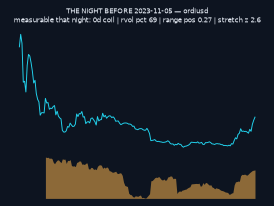
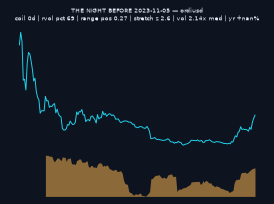
The night before, in full: every prior analysis on the night the lion was quiet. Section 5 rebuilt from 27 to 92 charts - one for each of the hundredfold board's biggest moves with a usable frame. Each chart truncates the price at the last quiet day (nothing after it existed yet), shades the coil wi

diff --git a/docs/v4_charts.html b/docs/v4_charts.html
@@ -317,52 +317,120 @@ construction; multiplicity binds; C7 stays sealed.</p>
 
 <h2>5. The night before &mdash; what could be said about the lion on the
 night it was quiet</h2>
-<p>Directive: charts of what was knowable on the night before the lion
-made the move. Here is the board as it existed on the last quiet day
-before the 27 biggest moves on record: the price chart <em>truncated at
-that night</em> &mdash; nothing after it existed yet &mdash; with the
-coil window shaded and the volatility-percentile strip beneath. The
-caption states exactly what was measurable that night (coil depth,
-vol percentile, position in the yearly range, stretch), and the last
-line records what the lion then did. This is the honest form of the
-clue: <span class="big">no chart here contains the move it
-precedes.</span> What it contains is the state &mdash; and the state
-is what C7 measured at +7.9 points over matched quiet. Read them and
-notice how often the night-before picture is boring: low, quiet,
-forgotten. The lion never looks like a lion the night before.
-Descriptive only; multiplicity binds; C7 sealed.</p>
+<p>Directive: charts of each prior analysis &mdash; what was knowable on
+the night before the lion made the move and jumped. Here is the board
+as it existed on the last quiet day before the 92 biggest moves on
+record. Each price series is <em>truncated at that night</em> &mdash;
+nothing after it existed yet &mdash; the coil window is shaded, and the
+volatility-percentile strip beneath shows the storm that had already
+ended. The caption is the complete panel of what was measurable that
+night: <span class="big">coil depth, volatility percentile, position
+in the yearly range, stretch, volume versus its own median, and the
+year's trend</span> &mdash; and the last line records what the lion
+then did. This is the honest form of the clue: <span class="big">no
+chart here contains the move it precedes.</span> What it contains is
+the state &mdash; and the state is what C7 measured at +7.9 points over
+matched quiet. Read them and notice how often the night-before picture
+is boring: low, quiet, forgotten, down on the year, volume dried.
+<span class="big">The lion never looks like a lion the night
+before.</span> Descriptive only; multiplicity binds; C7 sealed.</p>
 <div class="mgrid">
-<figure class="mv"><img src="assets/nightbefore/nb00.png" alt="mobileusd the night before its move"><figcaption><b>mobileusd</b> &middot; the night before <b>2023-11-18</b> &middot; not quiet, rvol pct 44, range pos 0.67, stretch z 1.4<br>then: <span class="big">+2,167% in the next 30 days</span></figcaption></figure>
-<figure class="mv"><img src="assets/nightbefore/nb01.png" alt="kmdusd the night before its move"><figcaption><b>kmdusd</b> &middot; the night before <b>2026-08-28</b> &middot; not quiet, rvol pct 99, range pos 0.03, stretch z -0.8<br>then: <span class="big">+2,094% in the next 30 days</span></figcaption></figure>
-<figure class="mv"><img src="assets/nightbefore/nb02.png" alt="arbusd the night before its move"><figcaption><b>arbusd</b> &middot; the night before <b>2023-02-18</b> &middot; not quiet, rvol pct 59, range pos 1.00, stretch z 1.6<br>then: <span class="big">+2,060% in the next 30 days</span></figcaption></figure>
-<figure class="mv"><img src="assets/nightbefore/nb03.png" alt="AKEUSDT the night before its move"><figcaption><b>AKEUSDT</b> &middot; the night before <b>2026-07-15</b> &middot; not quiet, rvol pct 100, range pos 0.51, stretch z 3.1<br>then: <span class="big">+1,462% in the next 30 days</span></figcaption></figure>
-<figure class="mv"><img src="assets/nightbefore/nb04.png" alt="tiausd the night before its move"><figcaption><b>tiausd</b> &middot; the night before <b>2023-11-09</b> &middot; quiet, rvol pct 5, range pos 0.10, stretch z -1.0<br>then: <span class="big">+1,275% in the next 30 days</span></figcaption></figure>
-<figure class="mv"><img src="assets/nightbefore/nb05.png" alt="turbousd the night before its move"><figcaption><b>turbousd</b> &middot; the night before <b>2024-04-27</b> &middot; not quiet, rvol pct 60, range pos 0.42, stretch z 0.0<br>then: <span class="big">+1,200% in the next 30 days</span></figcaption></figure>
-<figure class="mv"><img src="assets/nightbefore/nb06.png" alt="cfxusd the night before its move"><figcaption><b>cfxusd</b> &middot; the night before <b>2023-01-24</b> &middot; 56d coil, rvol pct 8, range pos 0.10, stretch z 0.1<br>then: <span class="big">+936% in the next 30 days</span></figcaption></figure>
-<figure class="mv"><img src="assets/nightbefore/nb07.png" alt="LSKUSDT the night before its move"><figcaption><b>LSKUSDT</b> &middot; the night before <b>2026-08-14</b> &middot; 170d coil, rvol pct 20, range pos 0.05, stretch z -0.9<br>then: <span class="big">+895% in the next 30 days</span></figcaption></figure>
-<figure class="mv"><img src="assets/nightbefore/nb08.png" alt="ordiusd the night before its move"><figcaption><b>ordiusd</b> &middot; the night before <b>2023-11-05</b> &middot; not quiet, rvol pct 69, range pos 0.27, stretch z 2.6<br>then: <span class="big">+737% in the next 30 days</span></figcaption></figure>
-<figure class="mv"><img src="assets/nightbefore/nb09.png" alt="UBUSDT the night before its move"><figcaption><b>UBUSDT</b> &middot; the night before <b>2026-04-06</b> &middot; not quiet, rvol pct 85, range pos 0.00, stretch z -3.0<br>then: <span class="big">+647% in the next 30 days</span></figcaption></figure>
-<figure class="mv"><img src="assets/nightbefore/nb10.png" alt="USELESSUSDT the night before its move"><figcaption><b>USELESSUSDT</b> &middot; the night before <b>2026-08-09</b> &middot; quiet, rvol pct 5, range pos 0.08, stretch z -2.0<br>then: <span class="big">+640% in the next 30 days</span></figcaption></figure>
-<figure class="mv"><img src="assets/nightbefore/nb11.png" alt="tonusd the night before its move"><figcaption><b>tonusd</b> &middot; the night before <b>2025-06-30</b> &middot; not quiet, rvol pct 88, range pos 0.12, stretch z -1.3<br>then: <span class="big">+636% in the next 30 days</span></figcaption></figure>
-<figure class="mv"><img src="assets/nightbefore/nb12.png" alt="lskusd the night before its move"><figcaption><b>lskusd</b> &middot; the night before <b>2026-08-14</b> &middot; quiet, rvol pct 27, range pos 0.05, stretch z -0.9<br>then: <span class="big">+623% in the next 30 days</span></figcaption></figure>
-<figure class="mv"><img src="assets/nightbefore/nb13.png" alt="jupusd the night before its move"><figcaption><b>jupusd</b> &middot; the night before <b>2025-11-05</b> &middot; not quiet, rvol pct 95, range pos 0.00, stretch z -7.2<br>then: <span class="big">+600% in the next 30 days</span></figcaption></figure>
-<figure class="mv"><img src="assets/nightbefore/nb14.png" alt="strkusd the night before its move"><figcaption><b>strkusd</b> &middot; the night before <b>2026-02-10</b> &middot; quiet, rvol pct 1, range pos 0.00, stretch z -0.7<br>then: <span class="big">+535% in the next 30 days</span></figcaption></figure>
-<figure class="mv"><img src="assets/nightbefore/nb15.png" alt="xvgusd the night before its move"><figcaption><b>xvgusd</b> &middot; the night before <b>2024-11-04</b> &middot; not quiet, rvol pct 41, range pos 0.02, stretch z -1.9<br>then: <span class="big">+531% in the next 30 days</span></figcaption></figure>
-<figure class="mv"><img src="assets/nightbefore/nb16.png" alt="zecusd the night before its move"><figcaption><b>zecusd</b> &middot; the night before <b>2025-09-11</b> &middot; not quiet, rvol pct 61, range pos 0.59, stretch z 1.5<br>then: <span class="big">+510% in the next 30 days</span></figcaption></figure>
-<figure class="mv"><img src="assets/nightbefore/nb17.png" alt="ZECUSDT the night before its move"><figcaption><b>ZECUSDT</b> &middot; the night before <b>2025-09-11</b> &middot; not quiet, rvol pct 56, range pos 0.59, stretch z 1.6<br>then: <span class="big">+507% in the next 30 days</span></figcaption></figure>
-<figure class="mv"><img src="assets/nightbefore/nb18.png" alt="xlmusd the night before its move"><figcaption><b>xlmusd</b> &middot; the night before <b>2024-10-25</b> &middot; 60d coil, rvol pct 8, range pos 0.13, stretch z -0.6<br>then: <span class="big">+475% in the next 30 days</span></figcaption></figure>
-<figure class="mv"><img src="assets/nightbefore/nb19.png" alt="XLMUSDT the night before its move"><figcaption><b>XLMUSDT</b> &middot; the night before <b>2024-10-25</b> &middot; quiet, rvol pct 9, range pos 0.13, stretch z -0.6<br>then: <span class="big">+474% in the next 30 days</span></figcaption></figure>
-<figure class="mv"><img src="assets/nightbefore/nb20.png" alt="DUSKUSDT the night before its move"><figcaption><b>DUSKUSDT</b> &middot; the night before <b>2025-12-21</b> &middot; quiet, rvol pct 10, range pos 0.02, stretch z -1.5<br>then: <span class="big">+468% in the next 30 days</span></figcaption></figure>
-<figure class="mv"><img src="assets/nightbefore/nb21.png" alt="ONEUSDT the night before its move"><figcaption><b>ONEUSDT</b> &middot; the night before <b>2026-08-22</b> &middot; not quiet, rvol pct 97, range pos 0.02, stretch z -1.7<br>then: <span class="big">+466% in the next 30 days</span></figcaption></figure>
-<figure class="mv"><img src="assets/nightbefore/nb22.png" alt="gasusd the night before its move"><figcaption><b>gasusd</b> &middot; the night before <b>2023-10-05</b> &middot; not quiet, rvol pct 34, range pos 0.05, stretch z -1.0<br>then: <span class="big">+457% in the next 30 days</span></figcaption></figure>
-<figure class="mv"><img src="assets/nightbefore/nb23.png" alt="QUSDT the night before its move"><figcaption><b>QUSDT</b> &middot; the night before <b>2026-09-19</b> &middot; quiet, rvol pct 21, range pos 0.59, stretch z 1.1<br>then: <span class="big">+453% in the next 30 days</span></figcaption></figure>
-<figure class="mv"><img src="assets/nightbefore/nb24.png" alt="ogusd the night before its move"><figcaption><b>ogusd</b> &middot; the night before <b>2023-03-09</b> &middot; 85d coil, rvol pct 4, range pos 0.02, stretch z -1.6<br>then: <span class="big">+450% in the next 30 days</span></figcaption></figure>
-<figure class="mv"><img src="assets/nightbefore/nb25.png" alt="arusd the night before its move"><figcaption><b>arusd</b> &middot; the night before <b>2024-02-07</b> &middot; quiet, rvol pct 22, range pos 0.65, stretch z -0.2<br>then: <span class="big">+414% in the next 30 days</span></figcaption></figure>
-<figure class="mv"><img src="assets/nightbefore/nb26.png" alt="movrusd the night before its move"><figcaption><b>movrusd</b> &middot; the night before <b>2023-11-24</b> &middot; not quiet, rvol pct 96, range pos 0.53, stretch z 2.6<br>then: <span class="big">+394% in the next 30 days</span></figcaption></figure>
+<figure class="mv"><img src="assets/nightbefore/nb00.png" alt="mobileusd the night before its move"><figcaption><b>mobileusd</b> &middot; the night before <b>2023-11-18</b><br>not quiet, rvol pct 44, range pos 0.67, stretch z 1.4, vol 7.61x, yr n/a<br>then: <span class="big">+2,167% in the next 30 days</span></figcaption></figure>
+<figure class="mv"><img src="assets/nightbefore/nb01.png" alt="kmdusd the night before its move"><figcaption><b>kmdusd</b> &middot; the night before <b>2026-08-28</b><br>not quiet, rvol pct 99, range pos 0.03, stretch z -0.8, vol 0.65x, yr -82%<br>then: <span class="big">+2,094% in the next 30 days</span></figcaption></figure>
+<figure class="mv"><img src="assets/nightbefore/nb02.png" alt="arbusd the night before its move"><figcaption><b>arbusd</b> &middot; the night before <b>2023-02-18</b><br>not quiet, rvol pct 59, range pos 1.00, stretch z 1.6, vol n/a, yr +67%<br>then: <span class="big">+2,060% in the next 30 days</span></figcaption></figure>
+<figure class="mv"><img src="assets/nightbefore/nb03.png" alt="AKEUSDT the night before its move"><figcaption><b>AKEUSDT</b> &middot; the night before <b>2026-07-15</b><br>not quiet, rvol pct 100, range pos 0.51, stretch z 3.1, vol 70.98x, yr -41%<br>then: <span class="big">+1,462% in the next 30 days</span></figcaption></figure>
+<figure class="mv"><img src="assets/nightbefore/nb04.png" alt="tiausd the night before its move"><figcaption><b>tiausd</b> &middot; the night before <b>2023-11-09</b><br>quiet, rvol pct 5, range pos 0.10, stretch z -1.0, vol n/a, yr -64%<br>then: <span class="big">+1,275% in the next 30 days</span></figcaption></figure>
+<figure class="mv"><img src="assets/nightbefore/nb05.png" alt="turbousd the night before its move"><figcaption><b>turbousd</b> &middot; the night before <b>2024-04-27</b><br>not quiet, rvol pct 60, range pos 0.42, stretch z 0.0, vol 0.64x, yr +500%<br>then: <span class="big">+1,200% in the next 30 days</span></figcaption></figure>
+<figure class="mv"><img src="assets/nightbefore/nb06.png" alt="cfxusd the night before its move"><figcaption><b>cfxusd</b> &middot; the night before <b>2023-01-24</b><br>56d coil, rvol pct 8, range pos 0.10, stretch z 0.1, vol 2.07x, yr -66%<br>then: <span class="big">+936% in the next 30 days</span></figcaption></figure>
+<figure class="mv"><img src="assets/nightbefore/nb07.png" alt="LSKUSDT the night before its move"><figcaption><b>LSKUSDT</b> &middot; the night before <b>2026-08-14</b><br>170d coil, rvol pct 20, range pos 0.05, stretch z -0.9, vol 21.63x, yr -65%<br>then: <span class="big">+895% in the next 30 days</span></figcaption></figure>
+<figure class="mv"><img src="assets/nightbefore/nb08.png" alt="ordiusd the night before its move"><figcaption><b>ordiusd</b> &middot; the night before <b>2023-11-05</b><br>not quiet, rvol pct 69, range pos 0.27, stretch z 2.6, vol 2.14x, yr n/a<br>then: <span class="big">+737% in the next 30 days</span></figcaption></figure>
+<figure class="mv"><img src="assets/nightbefore/nb09.png" alt="UBUSDT the night before its move"><figcaption><b>UBUSDT</b> &middot; the night before <b>2026-04-06</b><br>not quiet, rvol pct 85, range pos 0.00, stretch z -3.0, vol 2.62x, yr n/a<br>then: <span class="big">+647% in the next 30 days</span></figcaption></figure>
+<figure class="mv"><img src="assets/nightbefore/nb10.png" alt="USELESSUSDT the night before its move"><figcaption><b>USELESSUSDT</b> &middot; the night before <b>2026-08-09</b><br>quiet, rvol pct 5, range pos 0.08, stretch z -2.0, vol 1.07x, yr -64%<br>then: <span class="big">+640% in the next 30 days</span></figcaption></figure>
+<figure class="mv"><img src="assets/nightbefore/nb11.png" alt="tonusd the night before its move"><figcaption><b>tonusd</b> &middot; the night before <b>2025-06-30</b><br>not quiet, rvol pct 88, range pos 0.12, stretch z -1.3, vol 0.82x, yr -60%<br>then: <span class="big">+636% in the next 30 days</span></figcaption></figure>
+<figure class="mv"><img src="assets/nightbefore/nb12.png" alt="lskusd the night before its move"><figcaption><b>lskusd</b> &middot; the night before <b>2026-08-14</b><br>quiet, rvol pct 27, range pos 0.05, stretch z -0.9, vol 4.68x, yr -65%<br>then: <span class="big">+623% in the next 30 days</span></figcaption></figure>
+<figure class="mv"><img src="assets/nightbefore/nb13.png" alt="jupusd the night before its move"><figcaption><b>jupusd</b> &middot; the night before <b>2025-11-05</b><br>not quiet, rvol pct 95, range pos 0.00, stretch z -7.2, vol n/a, yr -86%<br>then: <span class="big">+600% in the next 30 days</span></figcaption></figure>
+<figure class="mv"><img src="assets/nightbefore/nb14.png" alt="strkusd the night before its move"><figcaption><b>strkusd</b> &middot; the night before <b>2026-02-10</b><br>quiet, rvol pct 1, range pos 0.00, stretch z -0.7, vol 0.98x, yr -100%<br>then: <span class="big">+535% in the next 30 days</span></figcaption></figure>
+<figure class="mv"><img src="assets/nightbefore/nb15.png" alt="xvgusd the night before its move"><figcaption><b>xvgusd</b> &middot; the night before <b>2024-11-04</b><br>not quiet, rvol pct 41, range pos 0.02, stretch z -1.9, vol 1.08x, yr -57%<br>then: <span class="big">+531% in the next 30 days</span></figcaption></figure>
+<figure class="mv"><img src="assets/nightbefore/nb16.png" alt="zecusd the night before its move"><figcaption><b>zecusd</b> &middot; the night before <b>2025-09-11</b><br>not quiet, rvol pct 61, range pos 0.59, stretch z 1.5, vol 1.01x, yr -19%<br>then: <span class="big">+510% in the next 30 days</span></figcaption></figure>
+<figure class="mv"><img src="assets/nightbefore/nb17.png" alt="ZECUSDT the night before its move"><figcaption><b>ZECUSDT</b> &middot; the night before <b>2025-09-11</b><br>not quiet, rvol pct 56, range pos 0.59, stretch z 1.6, vol 2.10x, yr -20%<br>then: <span class="big">+507% in the next 30 days</span></figcaption></figure>
+<figure class="mv"><img src="assets/nightbefore/nb18.png" alt="xlmusd the night before its move"><figcaption><b>xlmusd</b> &middot; the night before <b>2024-10-25</b><br>60d coil, rvol pct 8, range pos 0.13, stretch z -0.6, vol 1.20x, yr -19%<br>then: <span class="big">+475% in the next 30 days</span></figcaption></figure>
+<figure class="mv"><img src="assets/nightbefore/nb19.png" alt="XLMUSDT the night before its move"><figcaption><b>XLMUSDT</b> &middot; the night before <b>2024-10-25</b><br>quiet, rvol pct 9, range pos 0.13, stretch z -0.6, vol 1.04x, yr n/a<br>then: <span class="big">+474% in the next 30 days</span></figcaption></figure>
+<figure class="mv"><img src="assets/nightbefore/nb20.png" alt="DUSKUSDT the night before its move"><figcaption><b>DUSKUSDT</b> &middot; the night before <b>2025-12-21</b><br>quiet, rvol pct 10, range pos 0.02, stretch z -1.5, vol 0.42x, yr -43%<br>then: <span class="big">+468% in the next 30 days</span></figcaption></figure>
+<figure class="mv"><img src="assets/nightbefore/nb21.png" alt="ONEUSDT the night before its move"><figcaption><b>ONEUSDT</b> &middot; the night before <b>2026-08-22</b><br>not quiet, rvol pct 97, range pos 0.02, stretch z -1.7, vol 8.73x, yr -81%<br>then: <span class="big">+466% in the next 30 days</span></figcaption></figure>
+<figure class="mv"><img src="assets/nightbefore/nb22.png" alt="gasusd the night before its move"><figcaption><b>gasusd</b> &middot; the night before <b>2023-10-05</b><br>not quiet, rvol pct 34, range pos 0.05, stretch z -1.0, vol 1.55x, yr -10%<br>then: <span class="big">+457% in the next 30 days</span></figcaption></figure>
+<figure class="mv"><img src="assets/nightbefore/nb23.png" alt="QUSDT the night before its move"><figcaption><b>QUSDT</b> &middot; the night before <b>2026-09-19</b><br>quiet, rvol pct 21, range pos 0.59, stretch z 1.1, vol 1.07x, yr +29%<br>then: <span class="big">+453% in the next 30 days</span></figcaption></figure>
+<figure class="mv"><img src="assets/nightbefore/nb24.png" alt="ogusd the night before its move"><figcaption><b>ogusd</b> &middot; the night before <b>2023-03-09</b><br>85d coil, rvol pct 4, range pos 0.02, stretch z -1.6, vol 0.93x, yr -30%<br>then: <span class="big">+450% in the next 30 days</span></figcaption></figure>
+<figure class="mv"><img src="assets/nightbefore/nb25.png" alt="arusd the night before its move"><figcaption><b>arusd</b> &middot; the night before <b>2024-02-07</b><br>quiet, rvol pct 22, range pos 0.65, stretch z -0.2, vol 0.44x, yr +27%<br>then: <span class="big">+414% in the next 30 days</span></figcaption></figure>
+<figure class="mv"><img src="assets/nightbefore/nb26.png" alt="movrusd the night before its move"><figcaption><b>movrusd</b> &middot; the night before <b>2023-11-24</b><br>not quiet, rvol pct 96, range pos 0.53, stretch z 2.6, vol 9.12x, yr -26%<br>then: <span class="big">+394% in the next 30 days</span></figcaption></figure>
+<figure class="mv"><img src="assets/nightbefore/nb27.png" alt="slerfusd the night before its move"><figcaption><b>slerfusd</b> &middot; the night before <b>2026-04-30</b><br>not quiet, rvol pct 94, range pos 0.00, stretch z -1.2, vol 0.38x, yr -96%<br>then: <span class="big">+391% in the next 30 days</span></figcaption></figure>
+<figure class="mv"><img src="assets/nightbefore/nb28.png" alt="crvusd the night before its move"><figcaption><b>crvusd</b> &middot; the night before <b>2024-11-04</b><br>32d coil, rvol pct 9, range pos 0.02, stretch z -1.8, vol 0.83x, yr -62%<br>then: <span class="big">+387% in the next 30 days</span></figcaption></figure>
+<figure class="mv"><img src="assets/nightbefore/nb29.png" alt="CRVUSDT the night before its move"><figcaption><b>CRVUSDT</b> &middot; the night before <b>2024-11-04</b><br>31d coil, rvol pct 10, range pos 0.02, stretch z -1.8, vol 0.79x, yr -62%<br>then: <span class="big">+386% in the next 30 days</span></figcaption></figure>
+<figure class="mv"><img src="assets/nightbefore/nb30.png" alt="highusd the night before its move"><figcaption><b>highusd</b> &middot; the night before <b>2023-01-08</b><br>41d coil, rvol pct 0, range pos 0.02, stretch z -1.4, vol 0.70x, yr -77%<br>then: <span class="big">+381% in the next 30 days</span></figcaption></figure>
+<figure class="mv"><img src="assets/nightbefore/nb31.png" alt="IOTAUSDT the night before its move"><figcaption><b>IOTAUSDT</b> &middot; the night before <b>2024-11-04</b><br>quiet, rvol pct 28, range pos 0.00, stretch z -2.1, vol 1.29x, yr -63%<br>then: <span class="big">+380% in the next 30 days</span></figcaption></figure>
+<figure class="mv"><img src="assets/nightbefore/nb32.png" alt="iotausd the night before its move"><figcaption><b>iotausd</b> &middot; the night before <b>2024-11-04</b><br>quiet, rvol pct 31, range pos 0.00, stretch z -2.1, vol 0.87x, yr -63%<br>then: <span class="big">+377% in the next 30 days</span></figcaption></figure>
+<figure class="mv"><img src="assets/nightbefore/nb33.png" alt="cotiusd the night before its move"><figcaption><b>cotiusd</b> &middot; the night before <b>2024-01-27</b><br>not quiet, rvol pct 49, range pos 0.49, stretch z -0.1, vol 0.58x, yr -18%<br>then: <span class="big">+376% in the next 30 days</span></figcaption></figure>
+<figure class="mv"><img src="assets/nightbefore/nb34.png" alt="QNTUSDT the night before its move"><figcaption><b>QNTUSDT</b> &middot; the night before <b>2026-08-31</b><br>not quiet, rvol pct 35, range pos 0.18, stretch z -0.9, vol 0.69x, yr -18%<br>then: <span class="big">+370% in the next 30 days</span></figcaption></figure>
+<figure class="mv"><img src="assets/nightbefore/nb35.png" alt="qntusd the night before its move"><figcaption><b>qntusd</b> &middot; the night before <b>2026-08-31</b><br>not quiet, rvol pct 38, range pos 0.18, stretch z -0.9, vol 0.77x, yr -18%<br>then: <span class="big">+369% in the next 30 days</span></figcaption></figure>
+<figure class="mv"><img src="assets/nightbefore/nb36.png" alt="enjusd the night before its move"><figcaption><b>enjusd</b> &middot; the night before <b>2026-03-16</b><br>quiet, rvol pct 5, range pos 0.02, stretch z -1.3, vol 0.86x, yr -70%<br>then: <span class="big">+367% in the next 30 days</span></figcaption></figure>
+<figure class="mv"><img src="assets/nightbefore/nb37.png" alt="ENJUSDT the night before its move"><figcaption><b>ENJUSDT</b> &middot; the night before <b>2026-03-16</b><br>20d coil, rvol pct 1, range pos 0.02, stretch z -1.2, vol 0.73x, yr -70%<br>then: <span class="big">+365% in the next 30 days</span></figcaption></figure>
+<figure class="mv"><img src="assets/nightbefore/nb38.png" alt="hbarusd the night before its move"><figcaption><b>hbarusd</b> &middot; the night before <b>2024-11-14</b><br>not quiet, rvol pct 68, range pos 0.19, stretch z 2.6, vol 7.21x, yr -52%<br>then: <span class="big">+361% in the next 30 days</span></figcaption></figure>
+<figure class="mv"><img src="assets/nightbefore/nb39.png" alt="HBARUSDT the night before its move"><figcaption><b>HBARUSDT</b> &middot; the night before <b>2024-11-14</b><br>not quiet, rvol pct 72, range pos 0.19, stretch z 2.6, vol 6.44x, yr -52%<br>then: <span class="big">+360% in the next 30 days</span></figcaption></figure>
+<figure class="mv"><img src="assets/nightbefore/nb40.png" alt="RSRUSDT the night before its move"><figcaption><b>RSRUSDT</b> &middot; the night before <b>2024-11-03</b><br>53d coil, rvol pct 21, range pos 0.25, stretch z -0.1, vol 0.70x, yr +82%<br>then: <span class="big">+355% in the next 30 days</span></figcaption></figure>
+<figure class="mv"><img src="assets/nightbefore/nb41.png" alt="chrpusd the night before its move"><figcaption><b>chrpusd</b> &middot; the night before <b>2023-02-11</b><br>35d coil, rvol pct 8, range pos 0.00, stretch z -0.9, vol 0.72x, yr n/a<br>then: <span class="big">+344% in the next 30 days</span></figcaption></figure>
+<figure class="mv"><img src="assets/nightbefore/nb42.png" alt="ALGOUSDT the night before its move"><figcaption><b>ALGOUSDT</b> &middot; the night before <b>2024-11-02</b><br>49d coil, rvol pct 31, range pos 0.02, stretch z -1.4, vol 1.21x, yr -42%<br>then: <span class="big">+344% in the next 30 days</span></figcaption></figure>
+<figure class="mv"><img src="assets/nightbefore/nb43.png" alt="algousd the night before its move"><figcaption><b>algousd</b> &middot; the night before <b>2024-11-02</b><br>52d coil, rvol pct 28, range pos 0.02, stretch z -1.4, vol 0.97x, yr -42%<br>then: <span class="big">+341% in the next 30 days</span></figcaption></figure>
+<figure class="mv"><img src="assets/nightbefore/nb44.png" alt="rdntusd the night before its move"><figcaption><b>rdntusd</b> &middot; the night before <b>2023-01-12</b><br>27d coil, rvol pct 18, range pos 0.17, stretch z 0.7, vol 1.07x, yr n/a<br>then: <span class="big">+339% in the next 30 days</span></figcaption></figure>
+<figure class="mv"><img src="assets/nightbefore/nb45.png" alt="btgusd the night before its move"><figcaption><b>btgusd</b> &middot; the night before <b>2025-05-21</b><br>not quiet, rvol pct 89, range pos 0.01, stretch z -0.7, vol 0.29x, yr -96%<br>then: <span class="big">+339% in the next 30 days</span></figcaption></figure>
+<figure class="mv"><img src="assets/nightbefore/nb46.png" alt="PENGUUSDT the night before its move"><figcaption><b>PENGUUSDT</b> &middot; the night before <b>2025-06-21</b><br>25d coil, rvol pct 6, range pos 0.12, stretch z -0.1, vol 0.61x, yr n/a<br>then: <span class="big">+331% in the next 30 days</span></figcaption></figure>
+<figure class="mv"><img src="assets/nightbefore/nb47.png" alt="STRKUSDT the night before its move"><figcaption><b>STRKUSDT</b> &middot; the night before <b>2026-09-11</b><br>not quiet, rvol pct 63, range pos 0.09, stretch z -0.1, vol 2.21x, yr -67%<br>then: <span class="big">+330% in the next 30 days</span></figcaption></figure>
+<figure class="mv"><img src="assets/nightbefore/nb48.png" alt="trbusd the night before its move"><figcaption><b>trbusd</b> &middot; the night before <b>2023-08-17</b><br>not quiet, rvol pct 40, range pos 0.11, stretch z -1.1, vol 2.54x, yr -27%<br>then: <span class="big">+320% in the next 30 days</span></figcaption></figure>
+<figure class="mv"><img src="assets/nightbefore/nb49.png" alt="renderusd the night before its move"><figcaption><b>renderusd</b> &middot; the night before <b>2023-01-03</b><br>33d coil, rvol pct 10, range pos 0.06, stretch z -0.9, vol 1.25x, yr -76%<br>then: <span class="big">+318% in the next 30 days</span></figcaption></figure>
+<figure class="mv"><img src="assets/nightbefore/nb50.png" alt="SKRUSDT the night before its move"><figcaption><b>SKRUSDT</b> &middot; the night before <b>2026-08-01</b><br>quiet, rvol pct 14, range pos 0.00, stretch z -1.4, vol 0.54x, yr n/a<br>then: <span class="big">+316% in the next 30 days</span></figcaption></figure>
+<figure class="mv"><img src="assets/nightbefore/nb51.png" alt="zrxusd the night before its move"><figcaption><b>zrxusd</b> &middot; the night before <b>2024-02-13</b><br>not quiet, rvol pct 61, range pos 0.46, stretch z -0.8, vol 0.63x, yr +55%<br>then: <span class="big">+312% in the next 30 days</span></figcaption></figure>
+<figure class="mv"><img src="assets/nightbefore/nb52.png" alt="SANDUSDT the night before its move"><figcaption><b>SANDUSDT</b> &middot; the night before <b>2024-11-04</b><br>not quiet, rvol pct 39, range pos 0.00, stretch z -1.7, vol 1.02x, yr -58%<br>then: <span class="big">+311% in the next 30 days</span></figcaption></figure>
+<figure class="mv"><img src="assets/nightbefore/nb53.png" alt="sandusd the night before its move"><figcaption><b>sandusd</b> &middot; the night before <b>2024-11-04</b><br>not quiet, rvol pct 36, range pos 0.00, stretch z -1.8, vol 0.91x, yr -58%<br>then: <span class="big">+311% in the next 30 days</span></figcaption></figure>
+<figure class="mv"><img src="assets/nightbefore/nb54.png" alt="ALLOUSDT the night before its move"><figcaption><b>ALLOUSDT</b> &middot; the night before <b>2026-05-07</b><br>not quiet, rvol pct 52, range pos 0.14, stretch z 0.1, vol 1.07x, yr n/a<br>then: <span class="big">+307% in the next 30 days</span></figcaption></figure>
+<figure class="mv"><img src="assets/nightbefore/nb55.png" alt="arkmusd the night before its move"><figcaption><b>arkmusd</b> &middot; the night before <b>2024-01-29</b><br>not quiet, rvol pct 42, range pos 0.56, stretch z 0.4, vol 0.44x, yr n/a<br>then: <span class="big">+302% in the next 30 days</span></figcaption></figure>
+<figure class="mv"><img src="assets/nightbefore/nb56.png" alt="hntusd the night before its move"><figcaption><b>hntusd</b> &middot; the night before <b>2026-07-31</b><br>20d coil, rvol pct 1, range pos 0.00, stretch z -1.1, vol 1.30x, yr -90%<br>then: <span class="big">+300% in the next 30 days</span></figcaption></figure>
+<figure class="mv"><img src="assets/nightbefore/nb57.png" alt="dgbusd the night before its move"><figcaption><b>dgbusd</b> &middot; the night before <b>2024-11-04</b><br>not quiet, rvol pct 38, range pos 0.00, stretch z -3.1, vol 1.03x, yr -60%<br>then: <span class="big">+300% in the next 30 days</span></figcaption></figure>
+<figure class="mv"><img src="assets/nightbefore/nb58.png" alt="pivxusd the night before its move"><figcaption><b>pivxusd</b> &middot; the night before <b>2026-08-31</b><br>not quiet, rvol pct 97, range pos 0.03, stretch z -1.4, vol 0.23x, yr -87%<br>then: <span class="big">+299% in the next 30 days</span></figcaption></figure>
+<figure class="mv"><img src="assets/nightbefore/nb59.png" alt="SPOT_DGBUSDT the night before its move"><figcaption><b>SPOT_DGBUSDT</b> &middot; the night before <b>2024-11-04</b><br>54d coil, rvol pct 32, range pos 0.00, stretch z -3.1, vol 1.64x, yr -60%<br>then: <span class="big">+299% in the next 30 days</span></figcaption></figure>
+<figure class="mv"><img src="assets/nightbefore/nb60.png" alt="VETUSDT the night before its move"><figcaption><b>VETUSDT</b> &middot; the night before <b>2024-11-03</b><br>quiet, rvol pct 28, range pos 0.00, stretch z -1.9, vol 1.03x, yr -56%<br>then: <span class="big">+294% in the next 30 days</span></figcaption></figure>
+<figure class="mv"><img src="assets/nightbefore/nb61.png" alt="yggusd the night before its move"><figcaption><b>yggusd</b> &middot; the night before <b>2023-07-07</b><br>quiet, rvol pct 21, range pos 0.03, stretch z -1.3, vol 0.93x, yr -51%<br>then: <span class="big">+292% in the next 30 days</span></figcaption></figure>
+<figure class="mv"><img src="assets/nightbefore/nb62.png" alt="vetusd the night before its move"><figcaption><b>vetusd</b> &middot; the night before <b>2024-11-03</b><br>quiet, rvol pct 29, range pos 0.00, stretch z -1.9, vol 1.12x, yr -56%<br>then: <span class="big">+291% in the next 30 days</span></figcaption></figure>
+<figure class="mv"><img src="assets/nightbefore/nb63.png" alt="HUSDT the night before its move"><figcaption><b>HUSDT</b> &middot; the night before <b>2026-05-08</b><br>quiet, rvol pct 31, range pos 0.44, stretch z 1.4, vol 0.67x, yr +559%<br>then: <span class="big">+291% in the next 30 days</span></figcaption></figure>
+<figure class="mv"><img src="assets/nightbefore/nb64.png" alt="BUSDT the night before its move"><figcaption><b>BUSDT</b> &middot; the night before <b>2026-04-12</b><br>quiet, rvol pct 4, range pos 0.06, stretch z -0.9, vol 0.65x, yr -67%<br>then: <span class="big">+290% in the next 30 days</span></figcaption></figure>
+<figure class="mv"><img src="assets/nightbefore/nb65.png" alt="runeusd the night before its move"><figcaption><b>runeusd</b> &middot; the night before <b>2023-10-17</b><br>not quiet, rvol pct 58, range pos 0.57, stretch z 0.3, vol 1.17x, yr -21%<br>then: <span class="big">+284% in the next 30 days</span></figcaption></figure>
+<figure class="mv"><img src="assets/nightbefore/nb66.png" alt="santosusd the night before its move"><figcaption><b>santosusd</b> &middot; the night before <b>2022-07-25</b><br>25d coil, rvol pct 1, range pos 0.26, stretch z -0.1, vol 0.53x, yr n/a<br>then: <span class="big">+280% in the next 30 days</span></figcaption></figure>
+<figure class="mv"><img src="assets/nightbefore/nb67.png" alt="DASHUSDT the night before its move"><figcaption><b>DASHUSDT</b> &middot; the night before <b>2025-10-07</b><br>not quiet, rvol pct 100, range pos 0.68, stretch z 2.2, vol 5.98x, yr -4%<br>then: <span class="big">+278% in the next 30 days</span></figcaption></figure>
+<figure class="mv"><img src="assets/nightbefore/nb68.png" alt="rlcusd the night before its move"><figcaption><b>rlcusd</b> &middot; the night before <b>2026-09-11</b><br>24d coil, rvol pct 10, range pos 0.06, stretch z -0.9, vol 1.34x, yr -59%<br>then: <span class="big">+275% in the next 30 days</span></figcaption></figure>
+<figure class="mv"><img src="assets/nightbefore/nb69.png" alt="JELLYJELLYUSDT the night before its move"><figcaption><b>JELLYJELLYUSDT</b> &middot; the night before <b>2025-10-05</b><br>not quiet, rvol pct 77, range pos 0.72, stretch z 2.6, vol 11.65x, yr n/a<br>then: <span class="big">+274% in the next 30 days</span></figcaption></figure>
+<figure class="mv"><img src="assets/nightbefore/nb70.png" alt="dashusd the night before its move"><figcaption><b>dashusd</b> &middot; the night before <b>2025-10-07</b><br>not quiet, rvol pct 100, range pos 0.69, stretch z 2.2, vol 3.65x, yr -3%<br>then: <span class="big">+271% in the next 30 days</span></figcaption></figure>
+<figure class="mv"><img src="assets/nightbefore/nb71.png" alt="SUSHIUSDT the night before its move"><figcaption><b>SUSHIUSDT</b> &middot; the night before <b>2024-11-08</b><br>not quiet, rvol pct 89, range pos 0.14, stretch z 0.8, vol 1.64x, yr -55%<br>then: <span class="big">+268% in the next 30 days</span></figcaption></figure>
+<figure class="mv"><img src="assets/nightbefore/nb72.png" alt="TURBOUSDT the night before its move"><figcaption><b>TURBOUSDT</b> &middot; the night before <b>2025-04-06</b><br>quiet, rvol pct 12, range pos 0.00, stretch z -1.2, vol 0.77x, yr -72%<br>then: <span class="big">+267% in the next 30 days</span></figcaption></figure>
+<figure class="mv"><img src="assets/nightbefore/nb73.png" alt="wldusd the night before its move"><figcaption><b>wldusd</b> &middot; the night before <b>2024-01-23</b><br>not quiet, rvol pct 72, range pos 0.53, stretch z -0.4, vol 0.53x, yr +21889%<br>then: <span class="big">+264% in the next 30 days</span></figcaption></figure>
+<figure class="mv"><img src="assets/nightbefore/nb74.png" alt="sushiusd the night before its move"><figcaption><b>sushiusd</b> &middot; the night before <b>2024-11-08</b><br>not quiet, rvol pct 79, range pos 0.14, stretch z 0.8, vol 1.97x, yr -55%<br>then: <span class="big">+256% in the next 30 days</span></figcaption></figure>
+<figure class="mv"><img src="assets/nightbefore/nb75.png" alt="VVVUSDT the night before its move"><figcaption><b>VVVUSDT</b> &middot; the night before <b>2026-02-05</b><br>not quiet, rvol pct 91, range pos 0.23, stretch z -0.1, vol 0.97x, yr -50%<br>then: <span class="big">+255% in the next 30 days</span></figcaption></figure>
+<figure class="mv"><img src="assets/nightbefore/nb76.png" alt="BIOUSDT the night before its move"><figcaption><b>BIOUSDT</b> &middot; the night before <b>2026-04-02</b><br>22d coil, rvol pct 4, range pos 0.00, stretch z -1.3, vol 0.61x, yr -73%<br>then: <span class="big">+254% in the next 30 days</span></figcaption></figure>
+<figure class="mv"><img src="assets/nightbefore/nb77.png" alt="IDOLUSDT the night before its move"><figcaption><b>IDOLUSDT</b> &middot; the night before <b>2026-10-08</b><br>quiet, rvol pct 7, range pos 0.02, stretch z -1.6, vol 1.15x, yr -74%<br>then: <span class="big">+253% in the next 30 days</span></figcaption></figure>
+<figure class="mv"><img src="assets/nightbefore/nb78.png" alt="ampusd the night before its move"><figcaption><b>ampusd</b> &middot; the night before <b>2024-02-12</b><br>quiet, rvol pct 9, range pos 0.82, stretch z 0.8, vol 0.99x, yr +54%<br>then: <span class="big">+249% in the next 30 days</span></figcaption></figure>
+<figure class="mv"><img src="assets/nightbefore/nb79.png" alt="BRUSDT the night before its move"><figcaption><b>BRUSDT</b> &middot; the night before <b>2026-09-01</b><br>not quiet, rvol pct 61, range pos 0.72, stretch z 1.2, vol 1.10x, yr +243%<br>then: <span class="big">+248% in the next 30 days</span></figcaption></figure>
+<figure class="mv"><img src="assets/nightbefore/nb80.png" alt="AXSUSDT the night before its move"><figcaption><b>AXSUSDT</b> &middot; the night before <b>2025-12-24</b><br>not quiet, rvol pct 35, range pos 0.01, stretch z -1.4, vol 0.90x, yr -61%<br>then: <span class="big">+247% in the next 30 days</span></figcaption></figure>
+<figure class="mv"><img src="assets/nightbefore/nb81.png" alt="axsusd the night before its move"><figcaption><b>axsusd</b> &middot; the night before <b>2025-12-24</b><br>not quiet, rvol pct 39, range pos 0.01, stretch z -1.4, vol 0.67x, yr -61%<br>then: <span class="big">+246% in the next 30 days</span></figcaption></figure>
+<figure class="mv"><img src="assets/nightbefore/nb82.png" alt="SPOT_RAYUSDT the night before its move"><figcaption><b>SPOT_RAYUSDT</b> &middot; the night before <b>2024-10-10</b><br>not quiet, rvol pct 39, range pos 0.40, stretch z -0.5, vol 2.08x, yr n/a<br>then: <span class="big">+246% in the next 30 days</span></figcaption></figure>
+<figure class="mv"><img src="assets/nightbefore/nb83.png" alt="GALAUSDT the night before its move"><figcaption><b>GALAUSDT</b> &middot; the night before <b>2024-11-04</b><br>not quiet, rvol pct 37, range pos 0.03, stretch z -1.0, vol 0.95x, yr -48%<br>then: <span class="big">+245% in the next 30 days</span></figcaption></figure>
+<figure class="mv"><img src="assets/nightbefore/nb84.png" alt="dogeusd the night before its move"><figcaption><b>dogeusd</b> &middot; the night before <b>2024-10-13</b><br>not quiet, rvol pct 56, range pos 0.23, stretch z 0.1, vol 1.10x, yr +42%<br>then: <span class="big">+243% in the next 30 days</span></figcaption></figure>
+<figure class="mv"><img src="assets/nightbefore/nb85.png" alt="DOGEUSDT the night before its move"><figcaption><b>DOGEUSDT</b> &middot; the night before <b>2024-10-14</b><br>not quiet, rvol pct 38, range pos 0.24, stretch z 0.7, vol 1.01x, yr n/a<br>then: <span class="big">+242% in the next 30 days</span></figcaption></figure>
+<figure class="mv"><img src="assets/nightbefore/nb86.png" alt="thetausd the night before its move"><figcaption><b>thetausd</b> &middot; the night before <b>2024-02-10</b><br>quiet, rvol pct 24, range pos 0.54, stretch z -0.1, vol 0.62x, yr +22%<br>then: <span class="big">+239% in the next 30 days</span></figcaption></figure>
+<figure class="mv"><img src="assets/nightbefore/nb87.png" alt="fetusd the night before its move"><figcaption><b>fetusd</b> &middot; the night before <b>2024-02-01</b><br>quiet, rvol pct 24, range pos 0.61, stretch z -0.1, vol 0.55x, yr +128%<br>then: <span class="big">+233% in the next 30 days</span></figcaption></figure>
+<figure class="mv"><img src="assets/nightbefore/nb88.png" alt="JASMYUSDT the night before its move"><figcaption><b>JASMYUSDT</b> &middot; the night before <b>2024-11-05</b><br>70d coil, rvol pct 21, range pos 0.05, stretch z -1.1, vol 0.80x, yr +16%<br>then: <span class="big">+232% in the next 30 days</span></figcaption></figure>
+<figure class="mv"><img src="assets/nightbefore/nb89.png" alt="CFXUSDT the night before its move"><figcaption><b>CFXUSDT</b> &middot; the night before <b>2025-06-21</b><br>quiet, rvol pct 20, range pos 0.01, stretch z -1.6, vol 0.70x, yr -61%<br>then: <span class="big">+230% in the next 30 days</span></figcaption></figure>
+<figure class="mv"><img src="assets/nightbefore/nb90.png" alt="ETHFIUSDT the night before its move"><figcaption><b>ETHFIUSDT</b> &middot; the night before <b>2025-04-15</b><br>not quiet, rvol pct 52, range pos 0.00, stretch z -1.3, vol 0.51x, yr -68%<br>then: <span class="big">+228% in the next 30 days</span></figcaption></figure>
+<figure class="mv"><img src="assets/nightbefore/nb91.png" alt="ethfiusd the night before its move"><figcaption><b>ethfiusd</b> &middot; the night before <b>2025-04-15</b><br>not quiet, rvol pct 52, range pos 0.00, stretch z -1.3, vol 0.60x, yr -68%<br>then: <span class="big">+227% in the next 30 days</span></figcaption></figure>
 </div>
 <p>Machine-readable source:
-<code>paper/research/clue_scan/night_before.csv</code> (all 27 with
-the state as it stood on the last quiet day).</p>
+<code>paper/research/clue_scan/night_before.csv</code> (all 92 with
+the complete state panel as it stood on the last quiet day).</p>
 
 <p>Machine-readable source:
 <code>paper/research/clue_scan/hundred_moves.csv</code> (all 100 with
